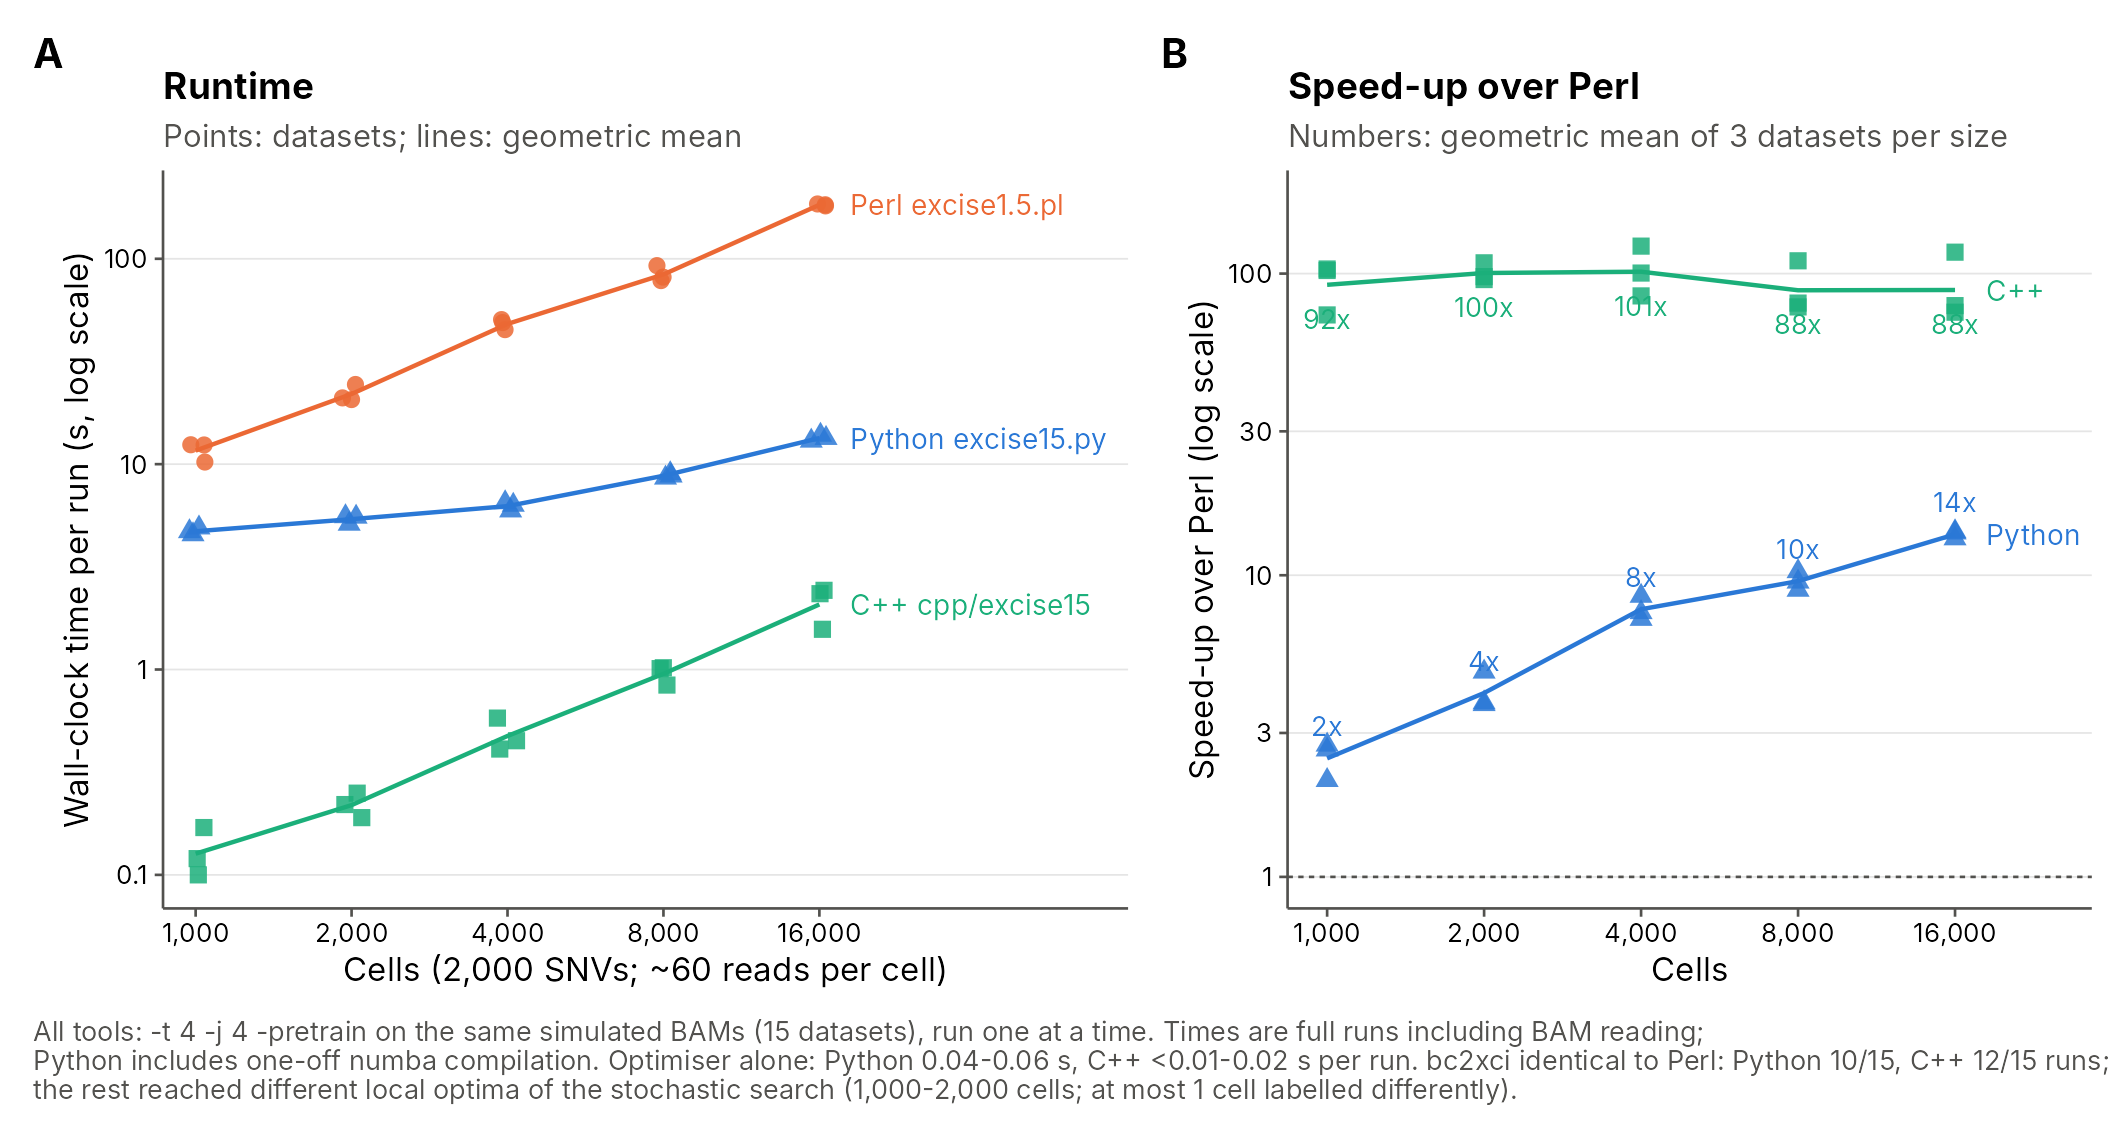
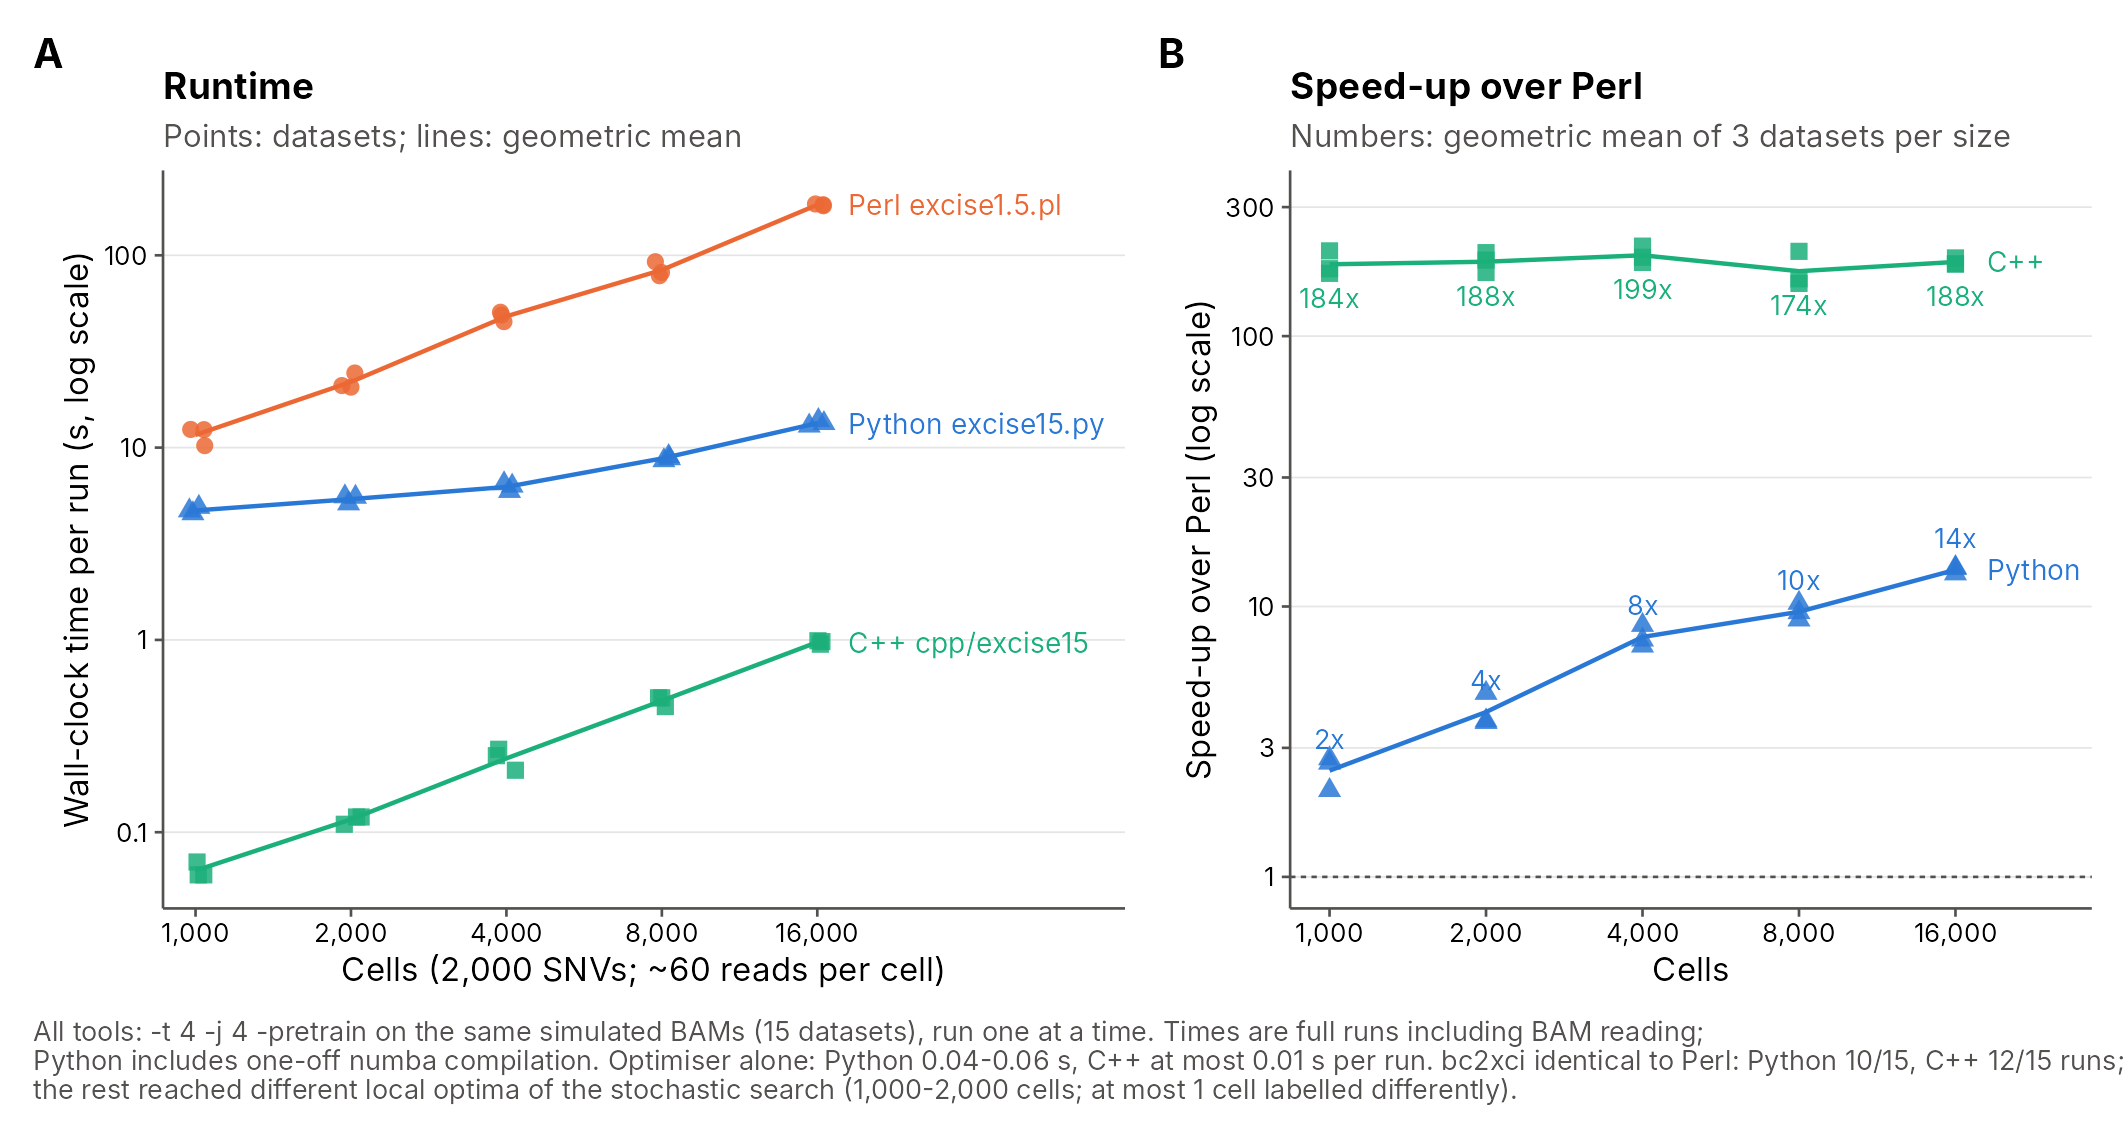
Speed up BAM reading (C++), numba start-up (Python) and GTF import (annotation.R)
- cpp/excise15: decompress and parse the chromosome in parallel chunks on
  -samthreads threads; reads are assigned to the chunk holding their start
  and chunks are merged in genomic order, so outputs equal a sequential
  pass (15/15 benchmark datasets identical to the previous build; inject,
  whitelist, gz, soft-UMI, -sm, -ms and multi-BAM checks identical to Perl).
  10M-read realistic BAM: BAM reading 5.0 s -> 1.5 s. Benchmark: 174-199x
  faster than Perl.
- excise15.py: cache numba kernels on disk (~1.3 s saved per run).
- annotation.R: pre-filter GTF gene rows with grep before fread (falls back
  to the previous readers); identical outputs, 13.5 s -> 1.6 s on a
  GENCODE-shaped GTF.

Claude-Session: https://claude.ai/code/session_01AE79kFjdfBnX5QRgnptLqj

diff --git a/cpp/excise15.cpp b/cpp/excise15.cpp
@@ -459,6 +459,10 @@ int main(int argc, char** argv) {
     if (snp.empty()) die("Zero SNVs, run terminated\n");
 
     // ---- BAMs ----
+    // Each BAM is split into genomic chunks parsed in parallel (own file handle
+    // per worker). A read belongs to the chunk holding its start position, and
+    // chunk results are concatenated in genomic order, so the observations,
+    // their order and all counters equal a single sequential pass.
     fputs("Reading BAM files ...\n", stderr);
     vector<Rec> recs;
     // cell-barcode keys point into deque storage (stable addresses)
@@ -467,28 +471,32 @@ int main(int argc, char** argv) {
     std::deque<string> cb_list;
     BamStats st;
     std::unordered_set<string> wl_seen, wl_matched;
-    vector<string> bams = o.bams;
-    std::sort(bams.begin(), bams.end());
-    for (const string& path : bams) {
-        fprintf(stderr, "    Reading %s ...\n", path.c_str());
+    struct Chunk {
+        hts_pos_t beg = 0, end = 0;
+        vector<Rec> recs;                 // cid = local cell id, uoff into arena, seq local
+        string arena;
+        vector<string> cbs;               // local cell ids, first-seen order
+        BamStats st;
+        std::unordered_set<string> wl_seen, wl_matched;
+    };
+    auto parse_chunk = [&](const string& path, Chunk& C) {
         samFile* fp = sam_open(path.c_str(), "r");
         if (!fp) die("Cannot open BAM " + path);
-        hts_set_threads(fp, o.samthreads);
         sam_hdr_t* hdr = sam_hdr_read(fp);
-        if (!hdr) die("Cannot read header of " + path);
-        if (sam_hdr_name2tid(hdr, chrom.c_str()) < 0) {
-            fprintf(stderr, "    [warn] %s not in BAM header of %s; skipped\n", chrom.c_str(), path.c_str());
-            sam_hdr_destroy(hdr); sam_close(fp); continue;
-        }
         hts_idx_t* idx = sam_index_load(fp, path.c_str());
-        if (!idx) die("Cannot load index for " + path + " (run samtools index)");
-        hts_itr_t* itr = sam_itr_querys(idx, hdr, chrom.c_str());
+        if (!hdr || !idx) die("Cannot read header/index of " + path + " (run samtools index)");
+        int tid = sam_hdr_name2tid(hdr, chrom.c_str());
+        hts_itr_t* itr = sam_itr_queryi(idx, tid, C.beg, C.end);
+        std::unordered_map<std::string_view, int32_t> lcb;
+        std::deque<string> lcb_store;
         bam1_t* b = bam_init1();
-        while (sam_itr_next(fp, itr, b) >= 0) {
+        while (itr && sam_itr_next(fp, itr, b) >= 0) {
+            if (b->core.pos < C.beg) continue;          // started in the previous chunk
             if (b->core.flag & BAM_FSECONDARY) continue;
             uint8_t* vG = bam_aux_get(b, "vG");
+            if (!vG) continue;
             uint8_t* vW = bam_aux_get(b, "vW");
-            if (!vG || !vW || bam_aux2i(vW) != 1) continue;
+            if (!vW || bam_aux2i(vW) != 1) continue;
             if (vG[0] != 'B') continue;
             if (o.monostretch > 0 && has_monostretch(b, o.monostretch)) continue;
             if (o.no_softmasking) {
@@ -508,12 +516,12 @@ int main(int argc, char** argv) {
             std::string_view cb(cbp);
             if (cb == "-") continue;
             if (use_wl) {
-                st.wl_cand++;
+                C.st.wl_cand++;
                 string m = o.wl_strip_gem ? strip_gem(string(cb)) : string(cb);
-                wl_seen.insert(m);
-                if (!allowed.count(m)) { st.wl_rej++; continue; }
-                st.wl_kept++;
-                wl_matched.insert(m);
+                C.wl_seen.insert(m);
+                if (!allowed.count(m)) { C.st.wl_rej++; continue; }
+                C.st.wl_kept++;
+                C.wl_matched.insert(m);
             }
             std::string_view umi;
             string soft_umi;
@@ -522,14 +530,14 @@ int main(int argc, char** argv) {
                 const char* u = bam_aux2Z(ub);
                 umi = u ? u : "";
                 if (umi == "-") continue;
-                st.hard++;
+                C.st.hard++;
             } else {
                 soft_umi = string(cb) + "_" + sam_hdr_tid2name(hdr, b->core.tid) + "_" + std::to_string(b->core.pos + 1) + "_" +
                       std::to_string(b->core.flag) + "_" + cigar_string(b) + "_" + std::to_string(b->core.isize);
                 umi = soft_umi;
-                st.soft++;
+                C.st.soft++;
             }
-            st.inf_reads++;
+            C.st.inf_reads++;
             int32_t cid = -1;
             int64_t uoff = -1;
             uint64_t uhash = 0;
@@ -539,21 +547,78 @@ int main(int argc, char** argv) {
                 if (k >= nvA) continue;
                 int allele = (int)bam_auxB2i(vA, k);
                 if (allele != 1 && allele != 2) continue;
-                if (o.scramble) allele = 1 + (int)(rng() & 1);
-                st.inf_alleles++;
+                if (o.scramble) allele = 1 + (int)(rng() & 1);   // single chunk when -x
+                C.st.inf_alleles++;
                 if (cid < 0) {
-                    auto it = cb_index.find(cb);
-                    if (it == cb_index.end()) {
-                        cid = (int32_t)cb_list.size(); cb_list.emplace_back(cb); cb_index.emplace(cb_list.back(), cid);
+                    auto it = lcb.find(cb);
+                    if (it == lcb.end()) {
+                        cid = (int32_t)C.cbs.size(); C.cbs.emplace_back(cb);
+                        lcb_store.emplace_back(cb); lcb.emplace(lcb_store.back(), cid);
                     } else cid = it->second;
-                    uoff = (int64_t)umi_arena.size();
-                    umi_arena.append(umi.data(), umi.size());
+                    uoff = (int64_t)C.arena.size();
+                    C.arena.append(umi.data(), umi.size());
                     uhash = std::hash<std::string_view>{}(umi);
                 }
-                recs.push_back(Rec{pos, uhash, uoff, (int64_t)recs.size(), cid, (uint32_t)umi.size(), (int8_t)allele});
+                C.recs.push_back(Rec{pos, uhash, uoff, (int64_t)C.recs.size(), cid, (uint32_t)umi.size(), (int8_t)allele});
             }
         }
-        bam_destroy1(b); hts_itr_destroy(itr); hts_idx_destroy(idx); sam_hdr_destroy(hdr); sam_close(fp);
+        bam_destroy1(b); if (itr) hts_itr_destroy(itr); hts_idx_destroy(idx); sam_hdr_destroy(hdr); sam_close(fp);
+    };
+    vector<string> bams = o.bams;
+    std::sort(bams.begin(), bams.end());
+    for (const string& path : bams) {
+        fprintf(stderr, "    Reading %s ...\n", path.c_str());
+        hts_pos_t clen;
+        {
+            samFile* fp = sam_open(path.c_str(), "r");
+            if (!fp) die("Cannot open BAM " + path);
+            sam_hdr_t* hdr = sam_hdr_read(fp);
+            if (!hdr) die("Cannot read header of " + path);
+            int tid = sam_hdr_name2tid(hdr, chrom.c_str());
+            if (tid < 0) {
+                fprintf(stderr, "    [warn] %s not in BAM header of %s; skipped\n", chrom.c_str(), path.c_str());
+                sam_hdr_destroy(hdr); sam_close(fp); continue;
+            }
+            hts_idx_t* idx = sam_index_load(fp, path.c_str());
+            if (!idx) die("Cannot load index for " + path + " (run samtools index)");
+            clen = sam_hdr_tid2len(hdr, tid);
+            hts_idx_destroy(idx); sam_hdr_destroy(hdr); sam_close(fp);
+        }
+        // more chunks than threads for load balance; one chunk when -x (RNG order)
+        int nthreads = o.scramble ? 1 : std::max(1, o.samthreads);
+        int nchunks = o.scramble ? 1 : nthreads * 8;
+        vector<Chunk> chunks(nchunks);
+        for (int k = 0; k < nchunks; k++) {
+            chunks[k].beg = clen * k / nchunks;
+            chunks[k].end = (k == nchunks - 1) ? HTS_POS_MAX : clen * (k + 1) / nchunks;
+        }
+        std::atomic<int> next_chunk(0);
+        vector<std::thread> pool;
+        for (int w = 0; w < nthreads; w++)
+            pool.emplace_back([&]() {
+                for (int k; (k = next_chunk.fetch_add(1)) < nchunks;) parse_chunk(path, chunks[k]);
+            });
+        for (auto& th : pool) th.join();
+        // merge in genomic order: global cell ids in first-seen order
+        for (Chunk& C : chunks) {
+            vector<int32_t> gid(C.cbs.size());
+            for (size_t l = 0; l < C.cbs.size(); l++) {
+                auto it = cb_index.find(C.cbs[l]);
+                if (it == cb_index.end()) {
+                    gid[l] = (int32_t)cb_list.size(); cb_list.emplace_back(C.cbs[l]);
+                    cb_index.emplace(cb_list.back(), gid[l]);
+                } else gid[l] = it->second;
+            }
+            int64_t aoff = (int64_t)umi_arena.size(), soff = (int64_t)recs.size();
+            umi_arena += C.arena;
+            for (Rec r : C.recs) { r.cid = gid[r.cid]; r.uoff += aoff; r.seq += soff; recs.push_back(r); }
+            st.inf_reads += C.st.inf_reads; st.inf_alleles += C.st.inf_alleles;
+            st.hard += C.st.hard; st.soft += C.st.soft;
+            st.wl_cand += C.st.wl_cand; st.wl_kept += C.st.wl_kept; st.wl_rej += C.st.wl_rej;
+            wl_seen.insert(C.wl_seen.begin(), C.wl_seen.end());
+            wl_matched.insert(C.wl_matched.begin(), C.wl_matched.end());
+            vector<Rec>().swap(C.recs); string().swap(C.arena);
+        }
         fprintf(stderr, "    Reads with allelic info: %lld  Alleles: %lld  UMIs: %lld/%lld (hard/soft)\n",
                 (long long)st.inf_reads, (long long)st.inf_alleles, (long long)st.hard, (long long)st.soft);
     }

diff --git a/excise15.py b/excise15.py
@@ -344,7 +344,7 @@ def build_tables(obs, n_cells):
 # =============================================================================
 # NUMBA KERNELS
 # =============================================================================
-@njit(cache=False)
+@njit(cache=True)
 def _cell_term(h1, h2, pen):
     mx = h1 if h1 > h2 else h2
     mn = h2 if h1 > h2 else h1
@@ -353,7 +353,7 @@ def _cell_term(h1, h2, pen):
     return (mx - 1) - pen * mn
 
 
-@njit(cache=False)
+@njit(cache=True)
 def _move_delta(s, old, new, ptr, ecell, en1, en2, h1, h2, pen):
     d = 0.0
     for k in range(ptr[s], ptr[s + 1]):
@@ -372,7 +372,7 @@ def _move_delta(s, old, new, ptr, ecell, en1, en2, h1, h2, pen):
     return d
 
 
-@njit(cache=False)
+@njit(cache=True)
 def _move_apply(s, old, new, ptr, ecell, en1, en2, h1, h2):
     for k in range(ptr[s], ptr[s + 1]):
         c = ecell[k]
@@ -386,7 +386,7 @@ def _move_apply(s, old, new, ptr, ecell, en1, en2, h1, h2):
             h1[c] += en2[k]; h2[c] += en1[k]
 
 
-@njit(cache=False)
+@njit(cache=True)
 def hill_climb(order, dirs, mono, ptr, ecell, en1, en2, n_cells, pen, seed,
                pass_imps, pass_score):
     """Greedy hill-climber of excise1.5.pl, with delta scoring.
@@ -468,7 +468,7 @@ def hill_climb(order, dirs, mono, ptr, ecell, en1, en2, n_cells, pen, seed,
     return init_score, score, npass
 
 
-@njit(cache=False)
+@njit(cache=True)
 def _pair_votes(cptr, csnv, cal, n_snv, cap, cell_lo, cell_hi, out_off, keys, sgn, seed):
     """Co-segregation votes for cells [cell_lo, cell_hi) (excise1.5 pretrain)."""
     np.random.seed(seed)
@@ -515,7 +515,7 @@ def _pair_votes(cptr, csnv, cal, n_snv, cap, cell_lo, cell_hi, out_off, keys, sg
             # unused slots keep key -1 and are dropped by the caller
 
 
-@njit(cache=False)
+@njit(cache=True)
 def _bfs_seed(cand, aptr, anbr, aw, n_snv, wmin):
     """BFS seeding with bottleneck weights (_bfs_seed_with_uncertainty)."""
     dirs = np.zeros(n_snv, np.int8)
@@ -549,7 +549,7 @@ def _bfs_seed(cand, aptr, anbr, aw, n_snv, wmin):
     return dirs, seen, bott
 
 
-@njit(cache=False)
+@njit(cache=True)
 def _phase3a(cand, ptr, ecell, en1, en2, h1, h2, ratio):
     """Phase-3 directionality assignment against fixed cb2phase_best."""
     out = np.zeros(cand.size, np.int8)

diff --git a/README.md b/README.md
@@ -171,7 +171,8 @@ Validation on simulated data (`tests/simulate_xci_data.py`):
 
 - When both scripts reach the same optimum, all five output files are byte-identical to `excise1.5.pl`. This holds with and without `-pretrain`, and with `-ph`.
 - Given the same optimizer result, Phase 2, both Phase-3 passes and all output writers match exactly, including on sparse data with many monoallelic SNVs.
-- On 1,000–16,000 cells (2,000 SNVs, `-t 4 -j 4 -pretrain`, 3 datasets per size), it was 2.5× to 13.7× faster than Perl. The optimizer took 0.04–0.06 s, so most of the remaining time is BAM reading and a one-off ~3 s JIT compile. See `simulations/`.
+- On 1,000–16,000 cells (2,000 SNVs, `-t 4 -j 4 -pretrain`, 3 datasets per size), it was 2.5× to 13.7× faster than Perl. The optimizer took 0.04–0.06 s, so most of the remaining time is BAM reading and numba compilation. See `simulations/`.
+- The compiled numba kernels are cached on disk (`__pycache__/`). The first run in a new location compiles them, and later runs skip that step, saving about 1.3 s per run.
 
 Results are not bit-identical to the Perl script for the same `-seed`, because the RNGs differ and Perl iterates hashes in random order. On hard, sparse data, individual tries can therefore reach different local optima, as they do between two Perl runs with different seeds.
 
@@ -185,14 +186,14 @@ cpp/excise15 -o SAMPLE_NAME -s hets_chrX.vcf.gz -b sample_WASP.bam \
   -r X -t 100 -j 8 -seed 42 -pretrain -ph
 ```
 
-The Python port spends almost all of its time outside the optimizer: decoding BAM records one at a time through pysam, plus numba compilation at start-up. The C++ port removes both. htslib decodes the BAM natively, and the binary is compiled ahead of time. The UMI collapsing (as in `%umis` / `%cb2allele`) uses one sort over a flat array, and the co-segregation votes are summed by sorting rather than through hash tables. The optimizer uses the same delta scoring as the Python port, and tries run on `-j` threads. For a non-system htslib, use `make -C cpp HTSLIB_PREFIX=$CONDA_PREFIX`.
+The Python port spends almost all of its time outside the optimizer: decoding BAM records one at a time through pysam, plus numba compilation at start-up. The C++ port removes both. htslib decodes the BAM natively, and the binary is compiled ahead of time. The chromosome is also split into chunks that are decompressed and parsed in parallel on `-samthreads` threads (default `-j`). Each read belongs to the chunk holding its start, and chunks are merged in genomic order, so the result is the same as a single sequential pass. The UMI collapsing (as in `%umis` / `%cb2allele`) uses one sort over a flat array, and the co-segregation votes are summed by sorting rather than through hash tables. The optimizer uses the same delta scoring as the Python port, and tries run on `-j` threads. For a non-system htslib, use `make -C cpp HTSLIB_PREFIX=$CONDA_PREFIX`.
 
 Validation against `excise1.5.pl`:
 
 - On the 15 benchmark datasets, all five output files are byte-identical in 12 runs. In the remaining 3 runs (1,000 cells, where the search is hardest), every cell gets the same `X1`/`X2`/`Both` label as in Perl. The haplotype counts differ slightly because the search reached a different local optimum.
 - Given Perl's optimizer result (`make -C cpp excise15_test`, `INJECT=<file>`), Phase 2, both Phase-3 passes and all writers are byte-identical on sparse data. This holds with and without `-ph`, at several `-u` and `-p` settings.
 - The input paths also match Perl byte for byte: a gzipped whitelist with `-wl_strip_gem`, a gzipped VCF, reads without `UB` (soft UMIs), `-sm`, `-ms`, and several BAMs.
-- Speed: 88–101× faster than Perl at every size from 1,000 to 16,000 cells, which is 6.5–37× faster than the Python port (geometric means per size). At 16,000 cells (0.96 M reads), it took 1.6–2.4 s, compared with 181–185 s for Perl and 13–14 s for Python.
+- Speed: 174–199× faster than Perl at every size from 1,000 to 16,000 cells, which is 14–75× faster than the Python port (geometric means per size). At 16,000 cells (0.96 M reads), it took 0.95–0.99 s, compared with 181–185 s for Perl and 13–14 s for Python. On a BAM shaped like real 10x data (10 M chrX reads, 90% without WASP tags), BAM reading took 1.5 s, against 5.0 s single-threaded and 2.0 s for `samtools view -@4 -c`. The output was byte-identical.
 
 ### MCMC pipeline (`excise.pl`)
 
@@ -373,7 +374,7 @@ Rscript annotation.R \
   --out=SAMPLE_chrX_XCISE.annot.tsv
 ```
 
-`annotation.R` outputs per-SNV gene name, biotype, XCI status (with `--xci_ref`), and the nearest upstream/downstream gene with distance in bp. `--hap` merges the haplotype TSV (X1/X2 alleles) with the VCF (`X1A` tag and `AD` UMI counts), cross-checks the two phasings and writes `*.haplotype_merged.tsv` with per-SNV X1/X2 UMIs. `--summary` writes a readable `*.summary.txt` and a `*.gene_summary.tsv`. `--plot` draws X1/X2 UMIs along chrX, the per-SNV UMI distribution on each haplotype, and the per-SNV X1 fraction. Without `--hap`, the phase comes from the VCF `X1A` tag, so the original XCISE VCF also works.
+`annotation.R` outputs per-SNV gene name, biotype, XCI status (with `--xci_ref`), and the nearest upstream/downstream gene with distance in bp. `--hap` merges the haplotype TSV (X1/X2 alleles) with the VCF (`X1A` tag and `AD` UMI counts), cross-checks the two phasings and writes `*.haplotype_merged.tsv` with per-SNV X1/X2 UMIs. `--summary` writes a readable `*.summary.txt` and a `*.gene_summary.tsv`. `--plot` draws X1/X2 UMIs along chrX, the per-SNV UMI distribution on each haplotype, and the per-SNV X1 fraction. Without `--hap`, the phase comes from the VCF `X1A` tag, so the original XCISE VCF also works. The GTF is read through `grep`, which keeps only the `gene` rows before parsing (about 2% of a GENCODE GTF). This makes the import roughly 9–13× faster than parsing the whole file, and gives the same gene table. On systems without `grep` (or `gzip`, for `.gtf.gz`), it falls back to rtracklayer or a full `fread`.
 
 ---
 

diff --git a/simulations/README.md b/simulations/README.md
@@ -79,9 +79,9 @@ mostly BAM reading plus about 3 s of numba compilation. The bc2xci output was by
 with Python scoring higher twice, Perl twice and the two tied once. One cell in all 15
 runs got a different label.
 
-The **C++ port** (`cpp/excise15`, timed separately on the same 15 datasets) was 92×, 100×, 101×, 88× and
-88× faster than Perl at 1,000 to 16,000 cells, which is 37× to 6.5× faster than Python. At 16,000 cells it took
-1.6–2.4 s, against 181–185 s for Perl. Its output was byte-identical to Perl in 12 of 15 runs. In the
+The **C++ port** (`cpp/excise15`, timed separately on the same 15 datasets, with parallel BAM parsing) was
+184×, 188×, 199×, 174× and 188× faster than Perl at 1,000 to 16,000 cells, which is 75× to 14× faster than
+Python. At 16,000 cells it took 0.95–0.99 s, against 181–185 s for Perl. Its output was byte-identical to Perl in 12 of 15 runs. In the
 other 3 runs (1,000 cells), every cell still got the same label.
 
 **XCI skew (Figs. 2–5, `results/skew_indep_*`, 10 independent replicates per ratio).**
